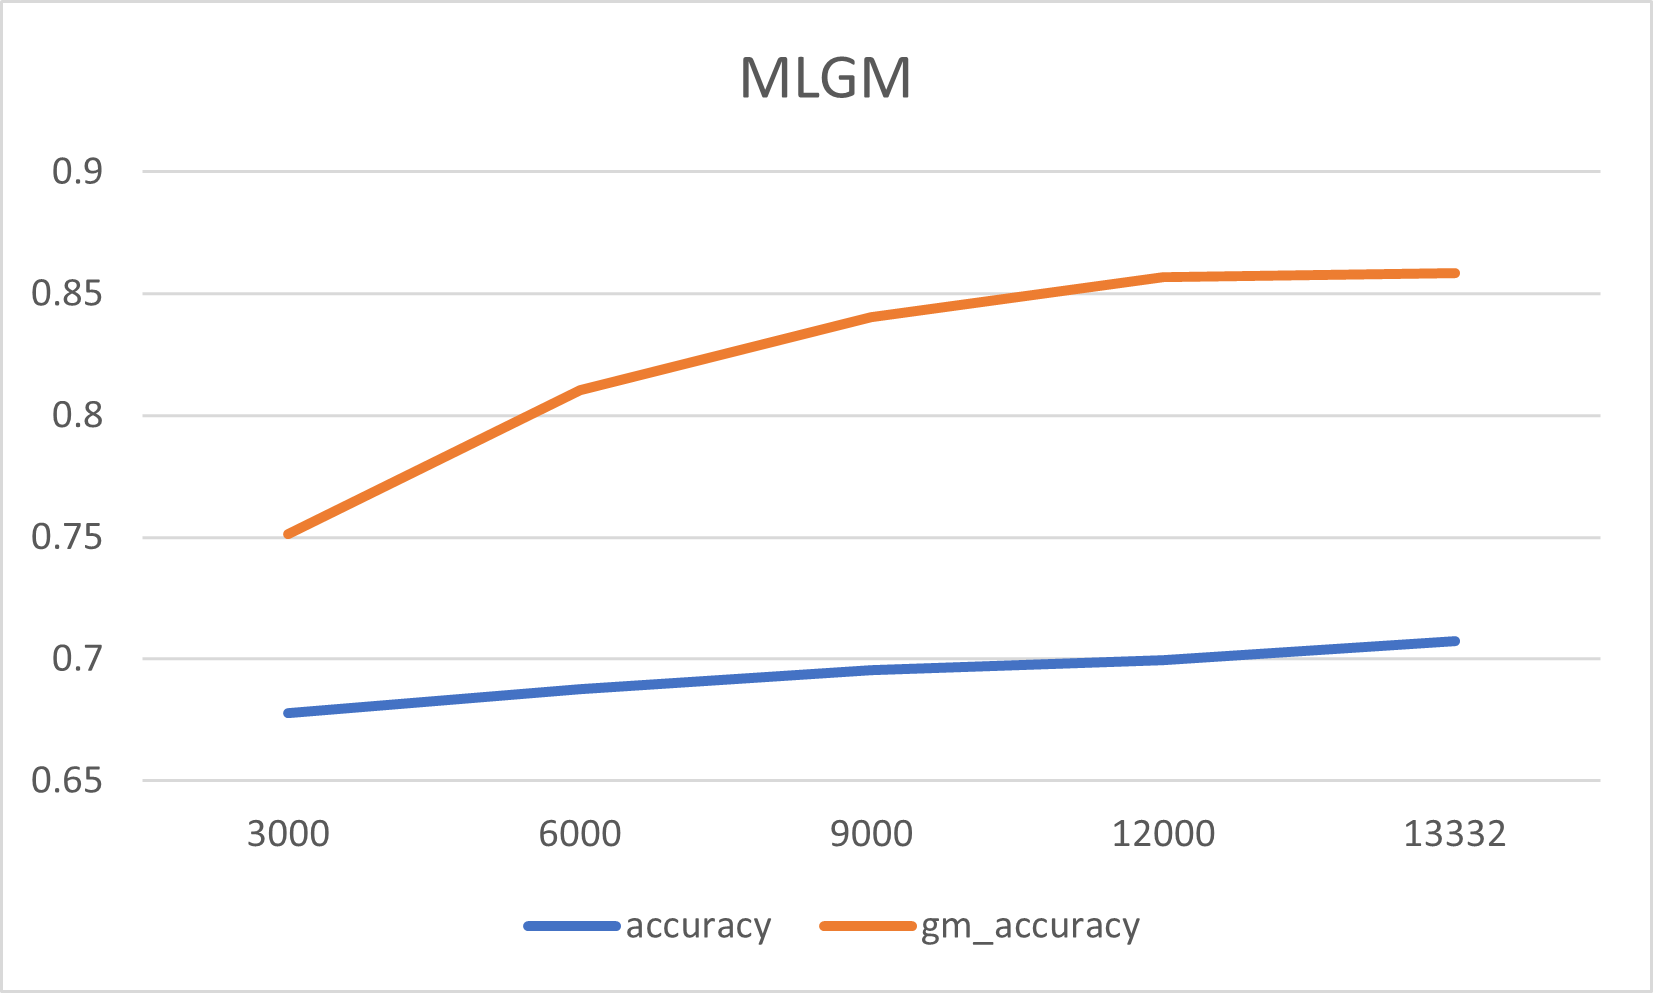
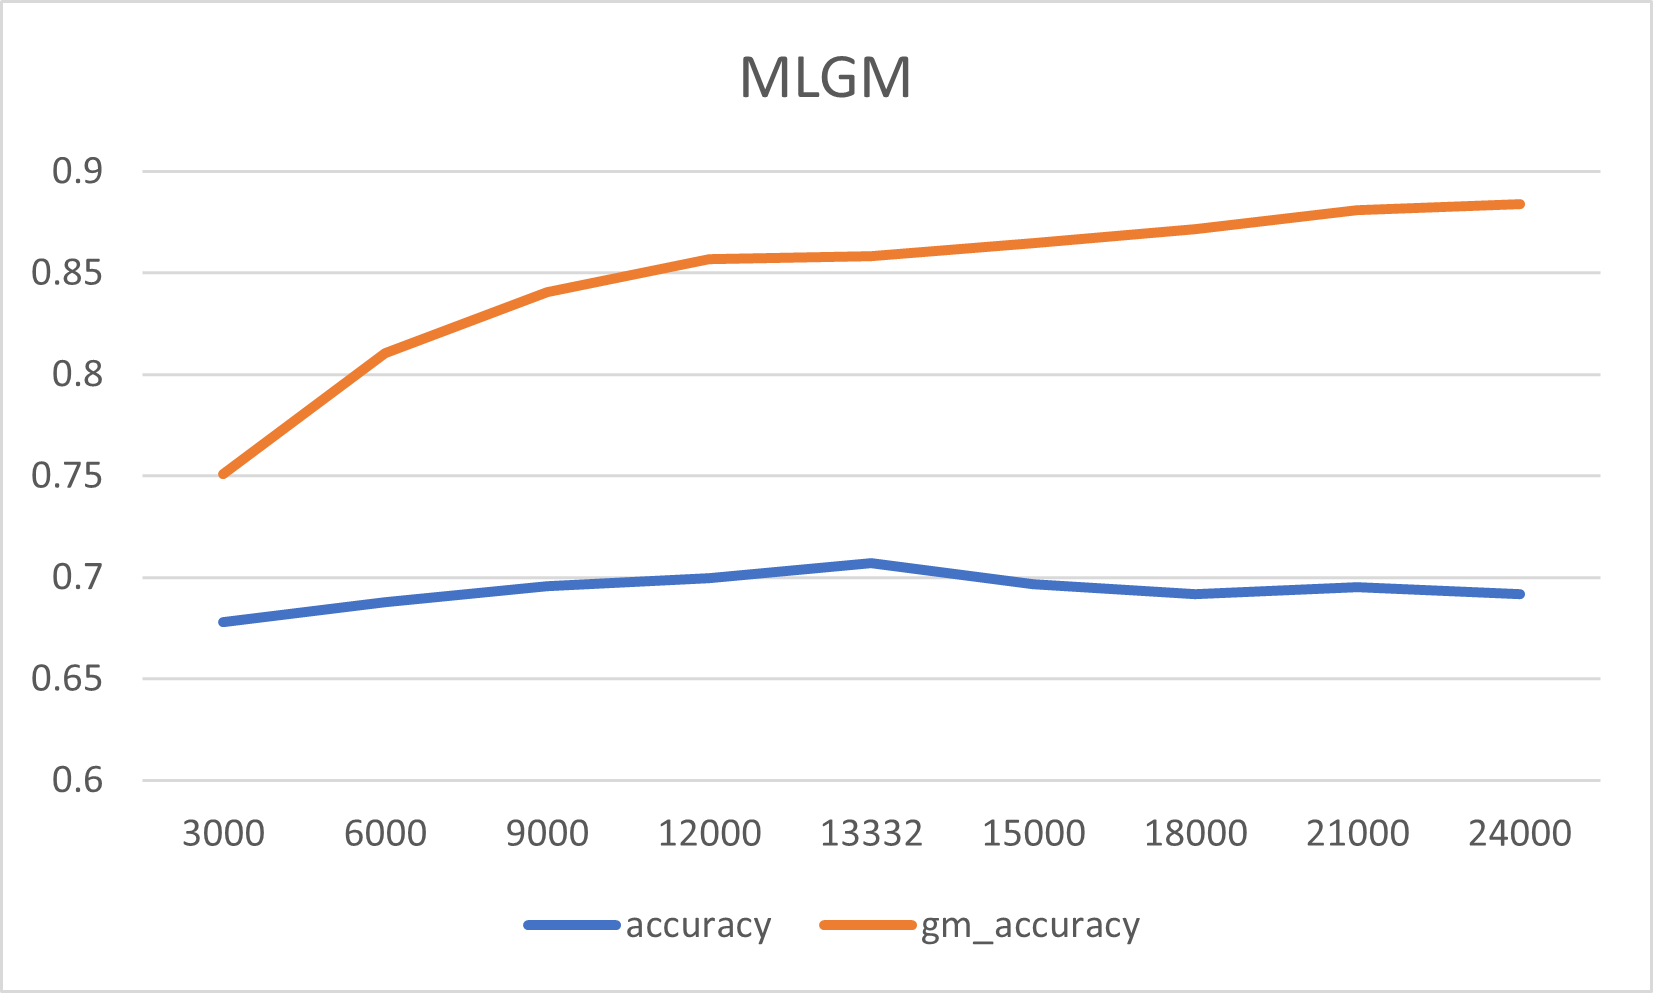
update MLGM results.

diff --git a/README.md b/README.md
@@ -91,7 +91,7 @@ MLGM is trained on the AMR3.0 dataset, the dataset must be preprocessed with cod
 
 ## MLGM result
 
-Through random masking, a total of 53328 samples are generated, after 13332 steps (1 epoch), masked language modeling accuracy (```accuracy```) and masked abstract meaning modeling accuracy (```gm_accuracy```) are plotted as following.
+Through random masking, a total of 53328 samples are generated, after 24000 steps, masked language modeling accuracy (```accuracy```) and masked abstract meaning modeling accuracy (```gm_accuracy```) are plotted as following. MLM/ MGM sample ratio still requires further tuning.
 
 ![mlgm_ep1](https://github.com/lu1kaifeng/DeBERTa/blob/master/mlgm_exp_acc.png)
 # DeBERTa: Decoding-enhanced BERT with Disentangled Attention
